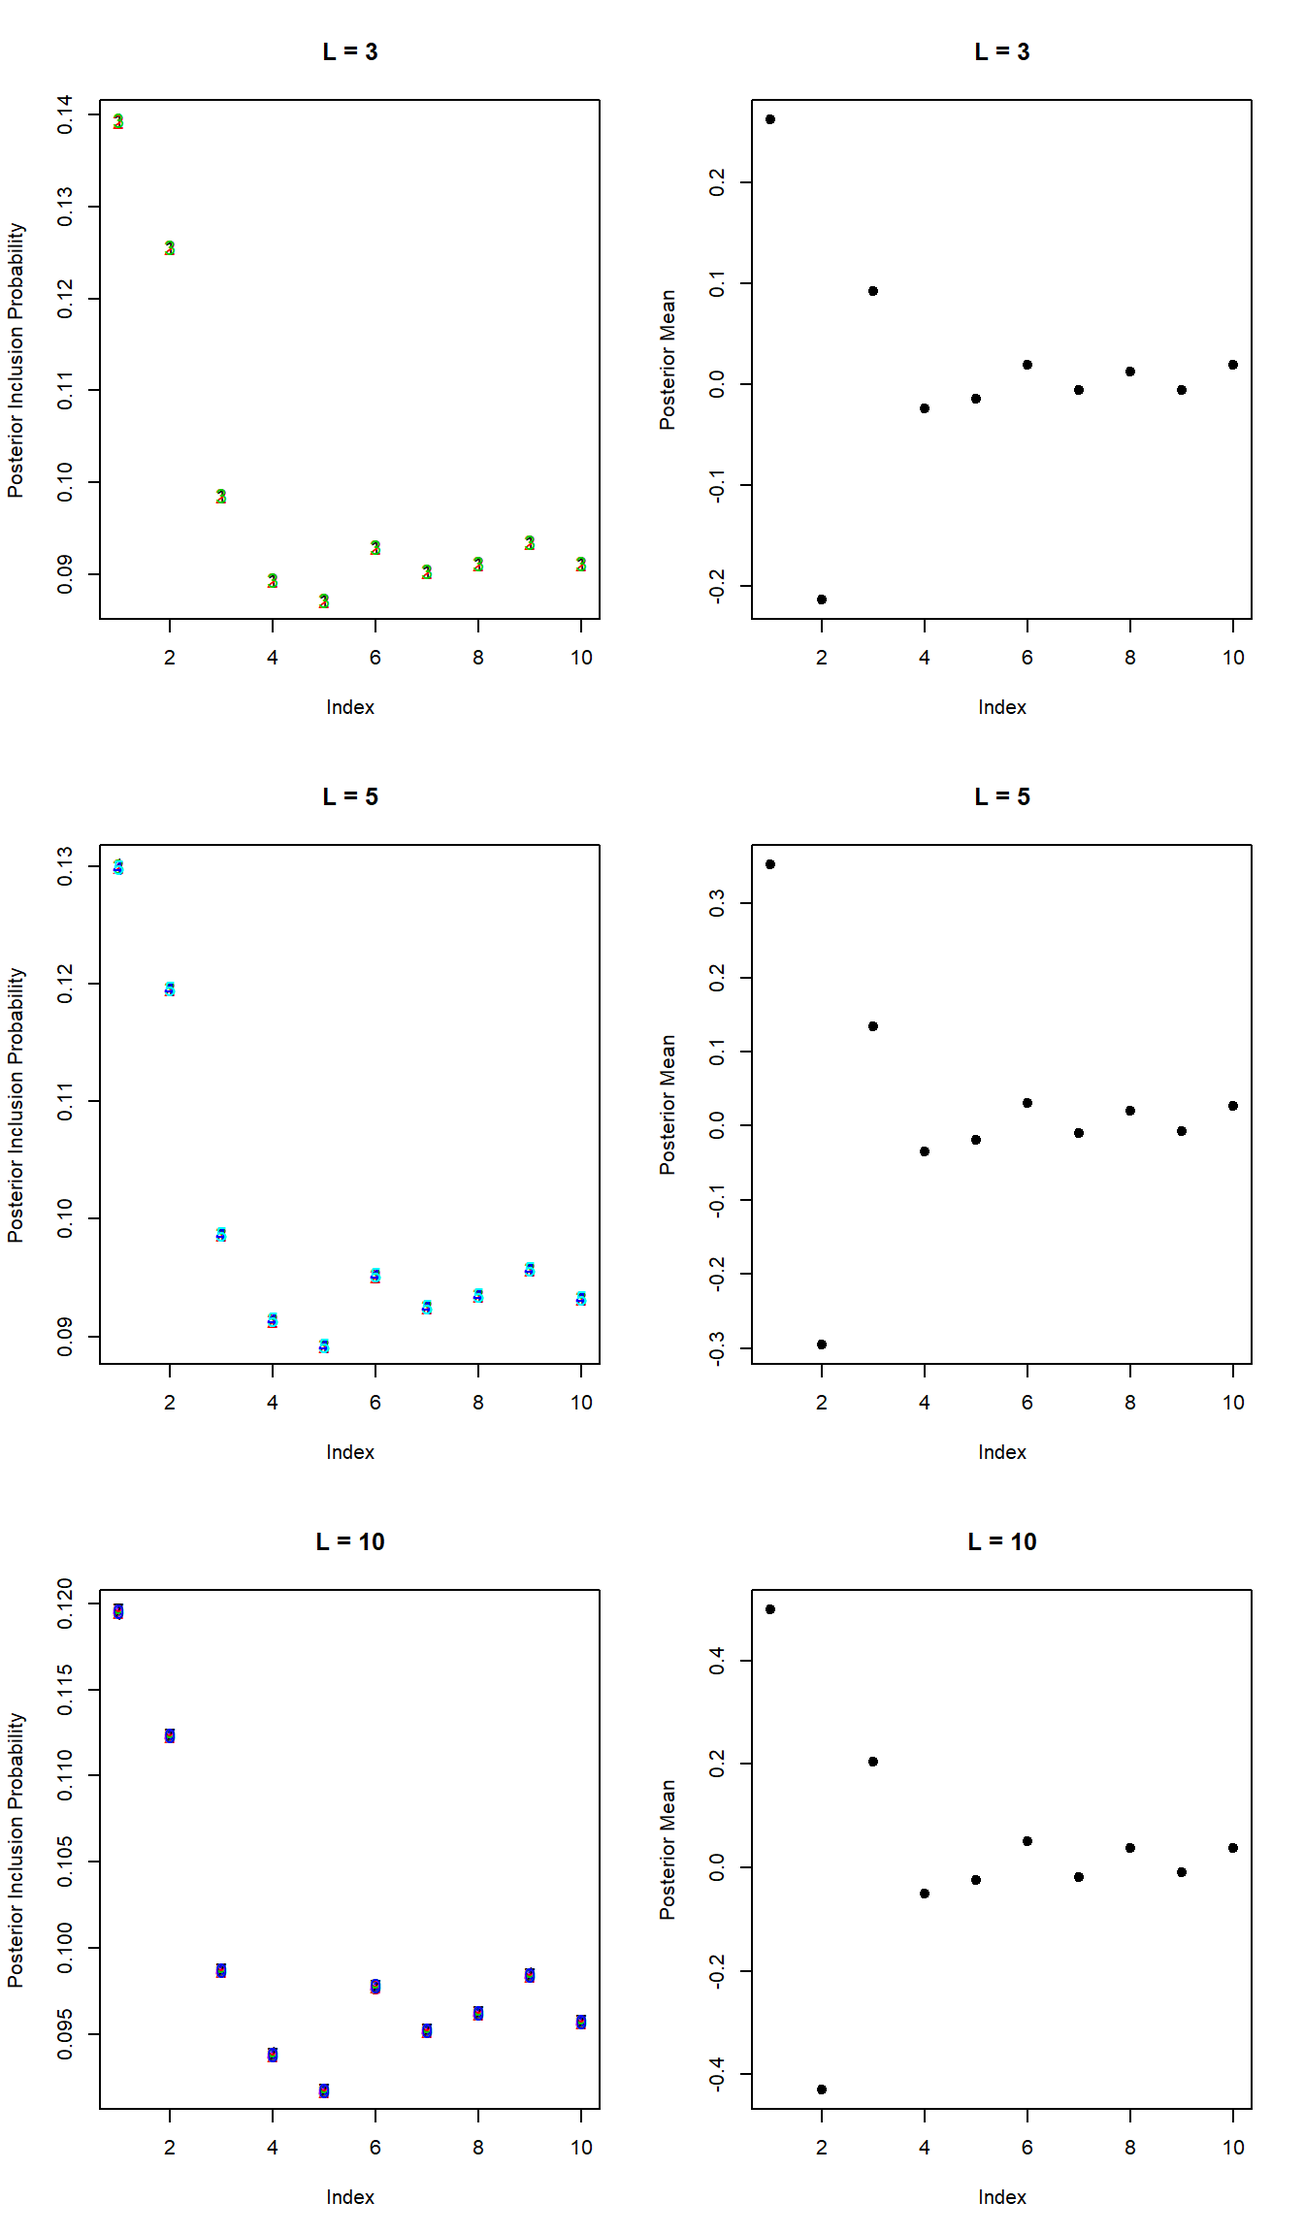
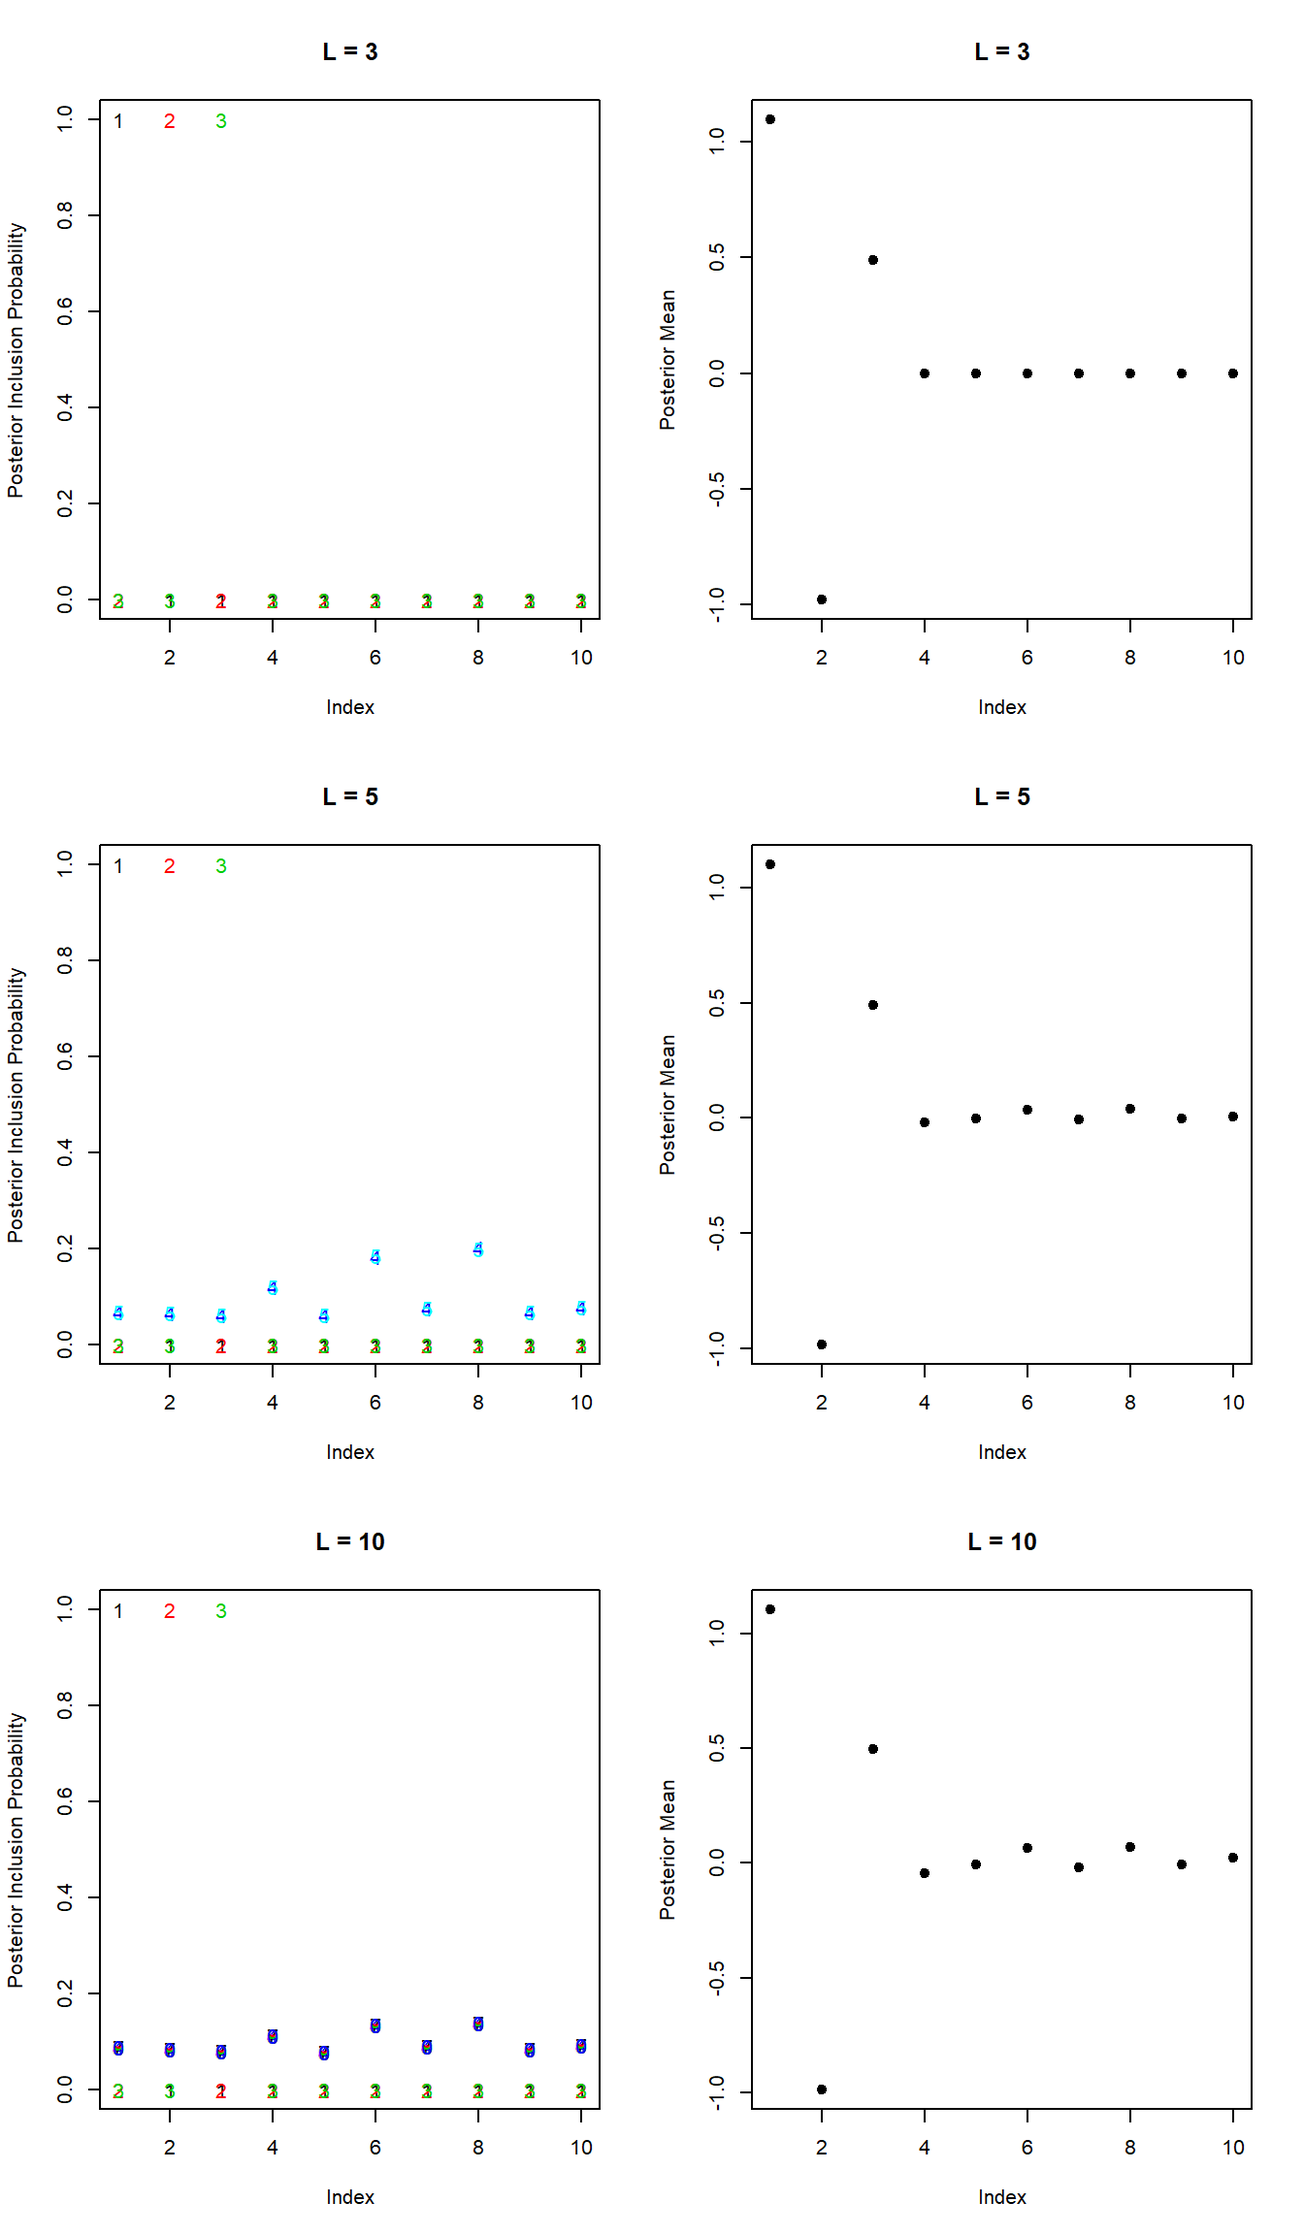
Build site.

diff --git a/docs/VB_susie_logistic_demonstration.html b/docs/VB_susie_logistic_demonstration.html
@@ -369,7 +369,7 @@ div.section {
 </details>
 </li>
 <li>
-<p><details> <summary> <strong style="color:blue;">✔</strong> <strong>Repository version:</strong> <a href="https://github.com/andrewg3311/susieR_logistic_wflow/tree/8aed9514f27c5cf8404b741e71131e46922d9a8c" target="_blank">8aed951</a> </summary></p>
+<p><details> <summary> <strong style="color:blue;">✔</strong> <strong>Repository version:</strong> <a href="https://github.com/andrewg3311/susieR_logistic_wflow/tree/bc021e306c8aeb93db6ba31979e085016c9239e6" target="_blank">bc021e3</a> </summary></p>
 Great! You are using Git for version control. Tracking code development and connecting the code version to the results is critical for reproducibility. The version displayed above was the version of the Git repository at the time these results were generated. <br><br> Note that you need to be careful to ensure that all relevant files for the analysis have been committed to Git prior to generating the results (you can use <code>wflow_publish</code> or <code>wflow_git_commit</code>). workflowr only checks the R Markdown file, but you know if there are other scripts or data files that it depends on. Below is the status of the Git repository when the results were generated:
 <pre><code>
 Ignored files:
@@ -405,6 +405,40 @@ Message
 </tr>
 </thead>
 <tbody>
+<tr>
+<td style="text-align:left;">
+Rmd
+</td>
+<td style="text-align:left;">
+<a href="https://github.com/andrewg3311/susieR_logistic_wflow/blob/bc021e306c8aeb93db6ba31979e085016c9239e6/analysis/VB_susie_logistic_demonstration.Rmd" target="_blank">bc021e3</a>
+</td>
+<td style="text-align:left;">
+Andrew Goldstein
+</td>
+<td style="text-align:left;">
+2019-05-07
+</td>
+<td style="text-align:left;">
+Reverting back from previous change, I was right the first time (oops!)
+</td>
+</tr>
+<tr>
+<td style="text-align:left;">
+html
+</td>
+<td style="text-align:left;">
+<a href="https://cdn.rawgit.com/andrewg3311/susieR_logistic_wflow/7785c2e32567d29f4ed4a44619d343110fa75fa5/docs/VB_susie_logistic_demonstration.html" target="_blank">7785c2e</a>
+</td>
+<td style="text-align:left;">
+Andrew Goldstein
+</td>
+<td style="text-align:left;">
+2019-05-07
+</td>
+<td style="text-align:left;">
+Build site.
+</td>
+</tr>
 <tr>
 <td style="text-align:left;">
 Rmd
@@ -671,12 +705,12 @@ c^2 (x_i^Te_j)^2 + x_i^T \mathbb{E}_{-(q_l)}[(\sum_{k \ne l}b_k)^2] + 2(cx_i^Te_
 \therefore q_l(b_l = c \cdot e_j) \propto \exp\Bigg\{\log p(b_l = c e_j) + \sum_{i=1}^n \Big[\log g(\xi_i) + y_i x_i^T(ce_j + \sum_{k \ne l} \bar{b_k} - \frac{x_i^T(ce_j + \sum_{k \ne l} \bar{b_k}) + \xi_i}{2} - \\
 \frac{1}{2\xi_i}\Big(g(\xi_i) - \frac{1}{2}\Big)\Big((c^2(x_i^Te_j)^2 + (cx_i^Te_j)(x_i^T \sum_{k \ne l} \bar{b_k}) - \xi_i^2\Big)\Big]\Bigg\} \propto \\
 [\text{collect terms and complete the square}] \\
-\propto \exp\Bigg\{\log(\pi_j) - \frac{\tau_{jl}}{2}\Bigg(c - \frac{\nu_{jl}}{\tau_{jl}}\Bigg)^2 + \frac{\nu_{jl}^2}{\tau_{jl}^2} \pm \frac12 \log(1 / \tau_{jl})\Bigg\} \\
+\propto \exp\Bigg\{\log(\pi_j) - \frac{\tau_{jl}}{2}\Bigg(c - \frac{\nu_{jl}}{\tau_{jl}}\Bigg)^2 + \frac{\nu_{jl}^2}{2\tau_{jl}} \pm \frac12 \log(1 / \tau_{jl})\Bigg\} \\
 \text{where } \nu_{jl} = \sum_{i=1}^n x_i^Te_j\Big(y_i - \frac{1}{2} - \frac{1}{\xi_i}(g(\xi_i) - \frac{1}{2})(x_i^T \sum_{k \ne l}\bar{b_k})\Big) \text{ and } \tau_{jl} = \frac{1}{\sigma_0^2} + \sum_{i=1}^n \frac{1}{\xi_i}(g(\xi_i) - \frac{1}{2})(x_i^Te_j)^2
 \end{aligned}
 \]</span> Note that this is a mixture of a multinoulli draw for the non-zero element of <span class="math inline">\(b_l\)</span> and then a normal draw for the value of that non-zero element. In particular, <span class="math display">\[
 \begin{aligned}
-q(\gamma_l = j) \propto \pi_j \cdot \sqrt{\frac{1}{\tau_{jl}}} \cdot \exp \Bigg\{\frac{\nu_{jl}^2}{\tau_{jl}^2}\Bigg\} \\
+q(\gamma_l = j) \propto \pi_j \cdot \sqrt{\frac{1}{\tau_{jl}}} \cdot \exp \Bigg\{\frac{\nu_{jl}^2}{2\tau_{jl}}\Bigg\} \\
 b_{l_j}|\gamma_l = j \sim_{q_l} \mathcal{N}\Big(\frac{\nu_{jl}}{\tau_{jl}}, \frac{1}{\tau_{jl}}\Big)
 \end{aligned}
 \]</span></p>
@@ -770,10 +804,11 @@ update_b_l = function(X, Y, xi, prior_weights, V, Sigma2, Mu, Alpha, l) {
   
   for (j in 1:ncol(X)) {
     common_denom = (1 / V) + sum(as.numeric(X[, j]^2) * (g_xi - .5) / xi) # appears many times, compute once
-    num = sum(X[, j] * (Y - .5 -  ((1 / xi) * (g_xi - .5) * (X %*% b_post_not_l)))) # numerator in exp
     
     # update Alpha[j, l]
-    Alpha[j, l] = log(prior_weights[j]) + ((num^2) / (common_denom^2)) + (1/2)*log(1 / common_denom) # on log-scale, for stability
+    num = sum(X[, j] * (Y - .5 -  ((1 / xi) * (g_xi - .5) * (X %*% b_post_not_l)))) # numerator in exp
+    denom = 2*common_denom # denominator in exp
+    Alpha[j, l] = log(prior_weights[j]) + (num^2 / denom) + (1/2)*log(1 / common_denom) # on log-scale, for stability
     
     # update Mu[j, l]
     Mu[j, l] = num / common_denom
@@ -1040,6 +1075,17 @@ Date
 <tbody>
 <tr>
 <td style="text-align:left;">
+<a href="https://github.com/andrewg3311/susieR_logistic_wflow/blob/7785c2e32567d29f4ed4a44619d343110fa75fa5/docs/figure/VB_susie_logistic_demonstration.Rmd/unnamed-chunk-4-1.png" target="_blank">7785c2e</a>
+</td>
+<td style="text-align:left;">
+Andrew Goldstein
+</td>
+<td style="text-align:left;">
+2019-05-07
+</td>
+</tr>
+<tr>
+<td style="text-align:left;">
 <a href="https://github.com/andrewg3311/susieR_logistic_wflow/blob/5c41e85c0cb729173b651c9b0751c2a567e12ae3/docs/figure/VB_susie_logistic_demonstration.Rmd/unnamed-chunk-4-1.png" target="_blank">5c41e85</a>
 </td>
 <td style="text-align:left;">
@@ -1092,6 +1138,17 @@ Date
 </tr>
 </thead>
 <tbody>
+<tr>
+<td style="text-align:left;">
+<a href="https://github.com/andrewg3311/susieR_logistic_wflow/blob/7785c2e32567d29f4ed4a44619d343110fa75fa5/docs/figure/VB_susie_logistic_demonstration.Rmd/unnamed-chunk-4-2.png" target="_blank">7785c2e</a>
+</td>
+<td style="text-align:left;">
+Andrew Goldstein
+</td>
+<td style="text-align:left;">
+2019-05-07
+</td>
+</tr>
 <tr>
 <td style="text-align:left;">
 <a href="https://github.com/andrewg3311/susieR_logistic_wflow/blob/5c41e85c0cb729173b651c9b0751c2a567e12ae3/docs/figure/VB_susie_logistic_demonstration.Rmd/unnamed-chunk-4-2.png" target="_blank">5c41e85</a>
@@ -1213,6 +1270,17 @@ Date
 <tbody>
 <tr>
 <td style="text-align:left;">
+<a href="https://github.com/andrewg3311/susieR_logistic_wflow/blob/7785c2e32567d29f4ed4a44619d343110fa75fa5/docs/figure/VB_susie_logistic_demonstration.Rmd/unnamed-chunk-7-1.png" target="_blank">7785c2e</a>
+</td>
+<td style="text-align:left;">
+Andrew Goldstein
+</td>
+<td style="text-align:left;">
+2019-05-07
+</td>
+</tr>
+<tr>
+<td style="text-align:left;">
 <a href="https://github.com/andrewg3311/susieR_logistic_wflow/blob/5c41e85c0cb729173b651c9b0751c2a567e12ae3/docs/figure/VB_susie_logistic_demonstration.Rmd/unnamed-chunk-7-1.png" target="_blank">5c41e85</a>
 </td>
 <td style="text-align:left;">
@@ -1255,6 +1323,17 @@ Date
 </tr>
 </thead>
 <tbody>
+<tr>
+<td style="text-align:left;">
+<a href="https://github.com/andrewg3311/susieR_logistic_wflow/blob/7785c2e32567d29f4ed4a44619d343110fa75fa5/docs/figure/VB_susie_logistic_demonstration.Rmd/unnamed-chunk-7-2.png" target="_blank">7785c2e</a>
+</td>
+<td style="text-align:left;">
+Andrew Goldstein
+</td>
+<td style="text-align:left;">
+2019-05-07
+</td>
+</tr>
 <tr>
 <td style="text-align:left;">
 <a href="https://github.com/andrewg3311/susieR_logistic_wflow/blob/5c41e85c0cb729173b651c9b0751c2a567e12ae3/docs/figure/VB_susie_logistic_demonstration.Rmd/unnamed-chunk-7-2.png" target="_blank">5c41e85</a>
@@ -1300,6 +1379,17 @@ Date
 <tbody>
 <tr>
 <td style="text-align:left;">
+<a href="https://github.com/andrewg3311/susieR_logistic_wflow/blob/7785c2e32567d29f4ed4a44619d343110fa75fa5/docs/figure/VB_susie_logistic_demonstration.Rmd/unnamed-chunk-7-3.png" target="_blank">7785c2e</a>
+</td>
+<td style="text-align:left;">
+Andrew Goldstein
+</td>
+<td style="text-align:left;">
+2019-05-07
+</td>
+</tr>
+<tr>
+<td style="text-align:left;">
 <a href="https://github.com/andrewg3311/susieR_logistic_wflow/blob/5c41e85c0cb729173b651c9b0751c2a567e12ae3/docs/figure/VB_susie_logistic_demonstration.Rmd/unnamed-chunk-7-3.png" target="_blank">5c41e85</a>
 </td>
 <td style="text-align:left;">
@@ -1341,6 +1431,17 @@ Date
 </tr>
 </thead>
 <tbody>
+<tr>
+<td style="text-align:left;">
+<a href="https://github.com/andrewg3311/susieR_logistic_wflow/blob/7785c2e32567d29f4ed4a44619d343110fa75fa5/docs/figure/VB_susie_logistic_demonstration.Rmd/unnamed-chunk-7-4.png" target="_blank">7785c2e</a>
+</td>
+<td style="text-align:left;">
+Andrew Goldstein
+</td>
+<td style="text-align:left;">
+2019-05-07
+</td>
+</tr>
 <tr>
 <td style="text-align:left;">
 <a href="https://github.com/andrewg3311/susieR_logistic_wflow/blob/5c41e85c0cb729173b651c9b0751c2a567e12ae3/docs/figure/VB_susie_logistic_demonstration.Rmd/unnamed-chunk-7-4.png" target="_blank">5c41e85</a>
@@ -1549,6 +1650,17 @@ Date
 <tbody>
 <tr>
 <td style="text-align:left;">
+<a href="https://github.com/andrewg3311/susieR_logistic_wflow/blob/7785c2e32567d29f4ed4a44619d343110fa75fa5/docs/figure/VB_susie_logistic_demonstration.Rmd/unnamed-chunk-11-1.png" target="_blank">7785c2e</a>
+</td>
+<td style="text-align:left;">
+Andrew Goldstein
+</td>
+<td style="text-align:left;">
+2019-05-07
+</td>
+</tr>
+<tr>
+<td style="text-align:left;">
 <a href="https://github.com/andrewg3311/susieR_logistic_wflow/blob/9fa2301ad69c033faef97129b5abb99a185eb653/docs/figure/VB_susie_logistic_demonstration.Rmd/unnamed-chunk-11-1.png" target="_blank">9fa2301</a>
 </td>
 <td style="text-align:left;">
@@ -1592,6 +1704,17 @@ Date
 <tbody>
 <tr>
 <td style="text-align:left;">
+<a href="https://github.com/andrewg3311/susieR_logistic_wflow/blob/7785c2e32567d29f4ed4a44619d343110fa75fa5/docs/figure/VB_susie_logistic_demonstration.Rmd/unnamed-chunk-11-2.png" target="_blank">7785c2e</a>
+</td>
+<td style="text-align:left;">
+Andrew Goldstein
+</td>
+<td style="text-align:left;">
+2019-05-07
+</td>
+</tr>
+<tr>
+<td style="text-align:left;">
 <a href="https://github.com/andrewg3311/susieR_logistic_wflow/blob/9fa2301ad69c033faef97129b5abb99a185eb653/docs/figure/VB_susie_logistic_demonstration.Rmd/unnamed-chunk-11-2.png" target="_blank">9fa2301</a>
 </td>
 <td style="text-align:left;">
@@ -1622,6 +1745,17 @@ Date
 </tr>
 </thead>
 <tbody>
+<tr>
+<td style="text-align:left;">
+<a href="https://github.com/andrewg3311/susieR_logistic_wflow/blob/7785c2e32567d29f4ed4a44619d343110fa75fa5/docs/figure/VB_susie_logistic_demonstration.Rmd/unnamed-chunk-11-3.png" target="_blank">7785c2e</a>
+</td>
+<td style="text-align:left;">
+Andrew Goldstein
+</td>
+<td style="text-align:left;">
+2019-05-07
+</td>
+</tr>
 <tr>
 <td style="text-align:left;">
 <a href="https://github.com/andrewg3311/susieR_logistic_wflow/blob/9fa2301ad69c033faef97129b5abb99a185eb653/docs/figure/VB_susie_logistic_demonstration.Rmd/unnamed-chunk-11-3.png" target="_blank">9fa2301</a>
@@ -1656,6 +1790,17 @@ Date
 </tr>
 </thead>
 <tbody>
+<tr>
+<td style="text-align:left;">
+<a href="https://github.com/andrewg3311/susieR_logistic_wflow/blob/7785c2e32567d29f4ed4a44619d343110fa75fa5/docs/figure/VB_susie_logistic_demonstration.Rmd/unnamed-chunk-12-1.png" target="_blank">7785c2e</a>
+</td>
+<td style="text-align:left;">
+Andrew Goldstein
+</td>
+<td style="text-align:left;">
+2019-05-07
+</td>
+</tr>
 <tr>
 <td style="text-align:left;">
 <a href="https://github.com/andrewg3311/susieR_logistic_wflow/blob/9fa2301ad69c033faef97129b5abb99a185eb653/docs/figure/VB_susie_logistic_demonstration.Rmd/unnamed-chunk-12-1.png" target="_blank">9fa2301</a>
@@ -1712,6 +1857,17 @@ Date
 <tbody>
 <tr>
 <td style="text-align:left;">
+<a href="https://github.com/andrewg3311/susieR_logistic_wflow/blob/7785c2e32567d29f4ed4a44619d343110fa75fa5/docs/figure/VB_susie_logistic_demonstration.Rmd/unnamed-chunk-12-2.png" target="_blank">7785c2e</a>
+</td>
+<td style="text-align:left;">
+Andrew Goldstein
+</td>
+<td style="text-align:left;">
+2019-05-07
+</td>
+</tr>
+<tr>
+<td style="text-align:left;">
 <a href="https://github.com/andrewg3311/susieR_logistic_wflow/blob/9fa2301ad69c033faef97129b5abb99a185eb653/docs/figure/VB_susie_logistic_demonstration.Rmd/unnamed-chunk-12-2.png" target="_blank">9fa2301</a>
 </td>
 <td style="text-align:left;">
@@ -1742,6 +1898,17 @@ Date
 </tr>
 </thead>
 <tbody>
+<tr>
+<td style="text-align:left;">
+<a href="https://github.com/andrewg3311/susieR_logistic_wflow/blob/7785c2e32567d29f4ed4a44619d343110fa75fa5/docs/figure/VB_susie_logistic_demonstration.Rmd/unnamed-chunk-12-3.png" target="_blank">7785c2e</a>
+</td>
+<td style="text-align:left;">
+Andrew Goldstein
+</td>
+<td style="text-align:left;">
+2019-05-07
+</td>
+</tr>
 <tr>
 <td style="text-align:left;">
 <a href="https://github.com/andrewg3311/susieR_logistic_wflow/blob/5c41e85c0cb729173b651c9b0751c2a567e12ae3/docs/figure/VB_susie_logistic_demonstration.Rmd/unnamed-chunk-12-3.png" target="_blank">5c41e85</a>
@@ -1979,6 +2146,17 @@ Date
 <tbody>
 <tr>
 <td style="text-align:left;">
+<a href="https://github.com/andrewg3311/susieR_logistic_wflow/blob/7785c2e32567d29f4ed4a44619d343110fa75fa5/docs/figure/VB_susie_logistic_demonstration.Rmd/unnamed-chunk-17-1.png" target="_blank">7785c2e</a>
+</td>
+<td style="text-align:left;">
+Andrew Goldstein
+</td>
+<td style="text-align:left;">
+2019-05-07
+</td>
+</tr>
+<tr>
+<td style="text-align:left;">
 <a href="https://github.com/andrewg3311/susieR_logistic_wflow/blob/5c41e85c0cb729173b651c9b0751c2a567e12ae3/docs/figure/VB_susie_logistic_demonstration.Rmd/unnamed-chunk-17-1.png" target="_blank">5c41e85</a>
 </td>
 <td style="text-align:left;">
@@ -2089,6 +2267,17 @@ Date
 <tbody>
 <tr>
 <td style="text-align:left;">
+<a href="https://github.com/andrewg3311/susieR_logistic_wflow/blob/7785c2e32567d29f4ed4a44619d343110fa75fa5/docs/figure/VB_susie_logistic_demonstration.Rmd/unnamed-chunk-18-1.png" target="_blank">7785c2e</a>
+</td>
+<td style="text-align:left;">
+Andrew Goldstein
+</td>
+<td style="text-align:left;">
+2019-05-07
+</td>
+</tr>
+<tr>
+<td style="text-align:left;">
 <a href="https://github.com/andrewg3311/susieR_logistic_wflow/blob/5c41e85c0cb729173b651c9b0751c2a567e12ae3/docs/figure/VB_susie_logistic_demonstration.Rmd/unnamed-chunk-18-1.png" target="_blank">5c41e85</a>
 </td>
 <td style="text-align:left;">
@@ -2187,6 +2376,17 @@ Date
 </tr>
 </thead>
 <tbody>
+<tr>
+<td style="text-align:left;">
+<a href="https://github.com/andrewg3311/susieR_logistic_wflow/blob/7785c2e32567d29f4ed4a44619d343110fa75fa5/docs/figure/VB_susie_logistic_demonstration.Rmd/unnamed-chunk-19-1.png" target="_blank">7785c2e</a>
+</td>
+<td style="text-align:left;">
+Andrew Goldstein
+</td>
+<td style="text-align:left;">
+2019-05-07
+</td>
+</tr>
 <tr>
 <td style="text-align:left;">
 <a href="https://github.com/andrewg3311/susieR_logistic_wflow/blob/5c41e85c0cb729173b651c9b0751c2a567e12ae3/docs/figure/VB_susie_logistic_demonstration.Rmd/unnamed-chunk-19-1.png" target="_blank">5c41e85</a>
@@ -2350,6 +2550,17 @@ Date
 <tbody>
 <tr>
 <td style="text-align:left;">
+<a href="https://github.com/andrewg3311/susieR_logistic_wflow/blob/7785c2e32567d29f4ed4a44619d343110fa75fa5/docs/figure/VB_susie_logistic_demonstration.Rmd/unnamed-chunk-20-3.png" target="_blank">7785c2e</a>
+</td>
+<td style="text-align:left;">
+Andrew Goldstein
+</td>
+<td style="text-align:left;">
+2019-05-07
+</td>
+</tr>
+<tr>
+<td style="text-align:left;">
 <a href="https://github.com/andrewg3311/susieR_logistic_wflow/blob/5c41e85c0cb729173b651c9b0751c2a567e12ae3/docs/figure/VB_susie_logistic_demonstration.Rmd/unnamed-chunk-20-3.png" target="_blank">5c41e85</a>
 </td>
 <td style="text-align:left;">
@@ -2423,7 +2634,7 @@ b|\gamma_j = 1 \sim \mathcal{N}(\mu_{1j}, \sigma_{1j}^2) \\
 \alpha_j \propto \pi_j \frac{\mathcal{N}(\hat{b_j}; 0, \sigma_0^2 + \sigma_{MLE_j}^2)}{\mathcal{N}(\hat{b_j}; 0, \sigma_0^2 )} = \pi_j \sqrt{\frac{\sigma_0^2}{\sigma_0^2 + \sigma_{MLE_j}^2}} \exp\Bigg\{\frac{\hat{b_j}^2}{2}\Big(\frac{1}{\sigma_0^2} - \frac{1}{\sigma_0^2 + \sigma_{MLE_j}^2}\Big)\Bigg\} \propto \pi_j \sqrt{\frac{1}{\sigma_0^2 + \sigma_{MLE_j}^2}} \exp\Bigg\{\frac{\hat{b_j}^2}{2}\Big(\frac{1}{\sigma_0^2} - \frac{1}{\sigma_0^2 + \sigma_{MLE_j}^2}\Big)\Bigg\}
 \]</span></p>
 <p>In the VB algorithm, we have <span class="math display">\[
-\alpha_j \propto \pi_j \sqrt{\sigma_{1j}^2} \exp\Bigg\{\frac{\mu_{1j}^2}{\sigma_{1j}^4}\Bigg\}
+\alpha_j \propto \pi_j \sqrt{\sigma_{1j}^2} \exp\Bigg\{\frac{\mu_{1j}^2}{2\sigma_{1j}^2}\Bigg\}
 \]</span></p>
 Now, if we start from the PIPs from the GLM version and plug in our results when applied to the VB algorithm: $$
 <span class="math display">\[\begin{aligned}
